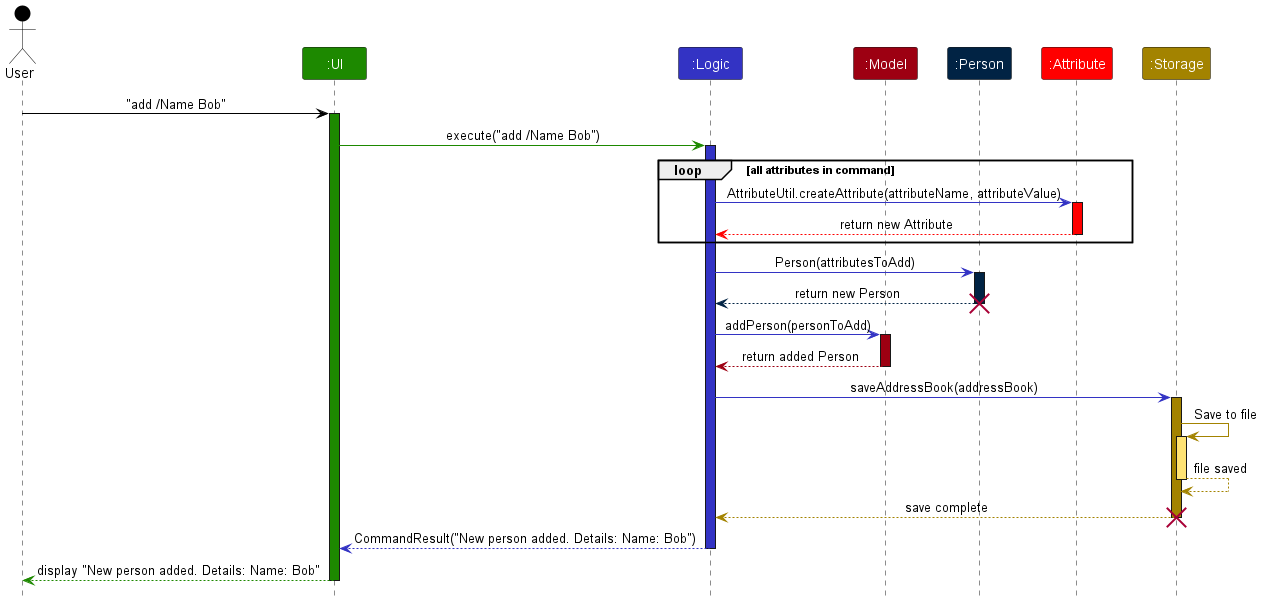
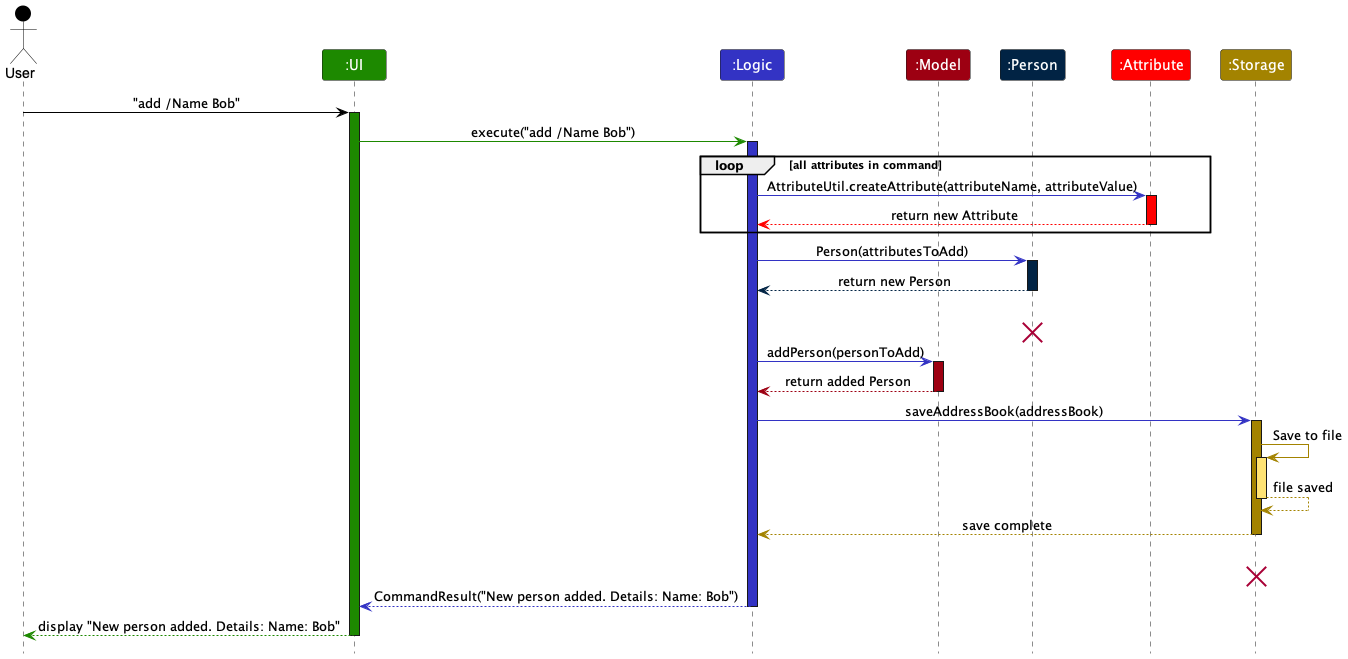
fix X marks for diagrams

diff --git a/docs/DeveloperGuide.md b/docs/DeveloperGuide.md
@@ -104,7 +104,7 @@ The *Sequence Diagram* below shows how the components interact with each other f
 Each of the four main components (also shown in the diagram above),
 
 * defines its *API* in an `interface` with the same name as the Component.
-* implements its functionality using a concrete `{Component Name}Manager` class (which follows the corresponding API `interface` mentioned in the previous point.
+* implements its functionality using a concrete `{Component Name}Manager` class which follows the corresponding API `interface` mentioned in the previous point.
 
 For example, the `Logic` component defines its API in the `Logic.java` interface and implements its functionality using the `LogicManager.java` class which follows the `Logic` interface. Other components interact with a given component through its interface rather than the concrete class (reason: to prevent outside component's being coupled to the implementation of a component), as illustrated in the (partial) class diagram below.
 
@@ -197,7 +197,7 @@ The `Person` component,
     * The `Person` component,
         * stores the Unique User ID or UUID of the person
         * stores any number of `Attribute` objects in the `Person` object in the hash map
-        * does not require to have any `Attribute` objects
+        * is not required to have any `Attribute` objects
     * The `Unique User ID` component,
         * acts as the unique identifier for a person
         * the UUID is generated by the system and is unique for each person
@@ -208,10 +208,12 @@ The `Person` component,
 
 <img src="images/AttributeClassDiagram.png" width="550" />
 
+**Attribute** is an abstract class that represents a detail about a `Person`. All other attribute classes extend from this class.
+
 * The `Attribute` component,
   * is used to store details about a `Person`
   * each attribute has a `name` and a `value`
-  * stored `Attribute` objects in the `Person` object in the hash map
+  * stores `Attribute` objects in the `Person` object in the hash map
   * Has general types of attributes (`StringAttribute`, `IntegerAttribute`, `DateAttribute`)
     * `StringAttribute` - stores a string value
     * `IntegerAttribute` - stores an integer value
@@ -219,8 +221,8 @@ The `Person` component,
   * Users are able to create their own attributes using the `StringAttribute` class
     * They will have their own `String` name and `String` value
   * Has specific types of attributes (e.g. `NameAttribute`, `PhoneNumberAttribute`) with unique constraints relevant to their validity
-    * `NameAttribute` - stores the name of the person
-    * `PhoneNumberAttribute` - stores the phone number of the person and must be an integer of less than 10 digits
+    * `NameAttribute` extends the `StringAttribute`- stores the name of the person
+    * `PhoneNumberAttribute` extends the `IntegerAttribute` - stores the phone number of the person and must be an integer of less than 10 digits
     * `GenderAttribute` - stores the gender of the person and must be either `Male` or `Female`
   * does not depend on the other components (as the `Attribute` are standalone stores of details about the `Person`)
 #### Model component - Relationship
